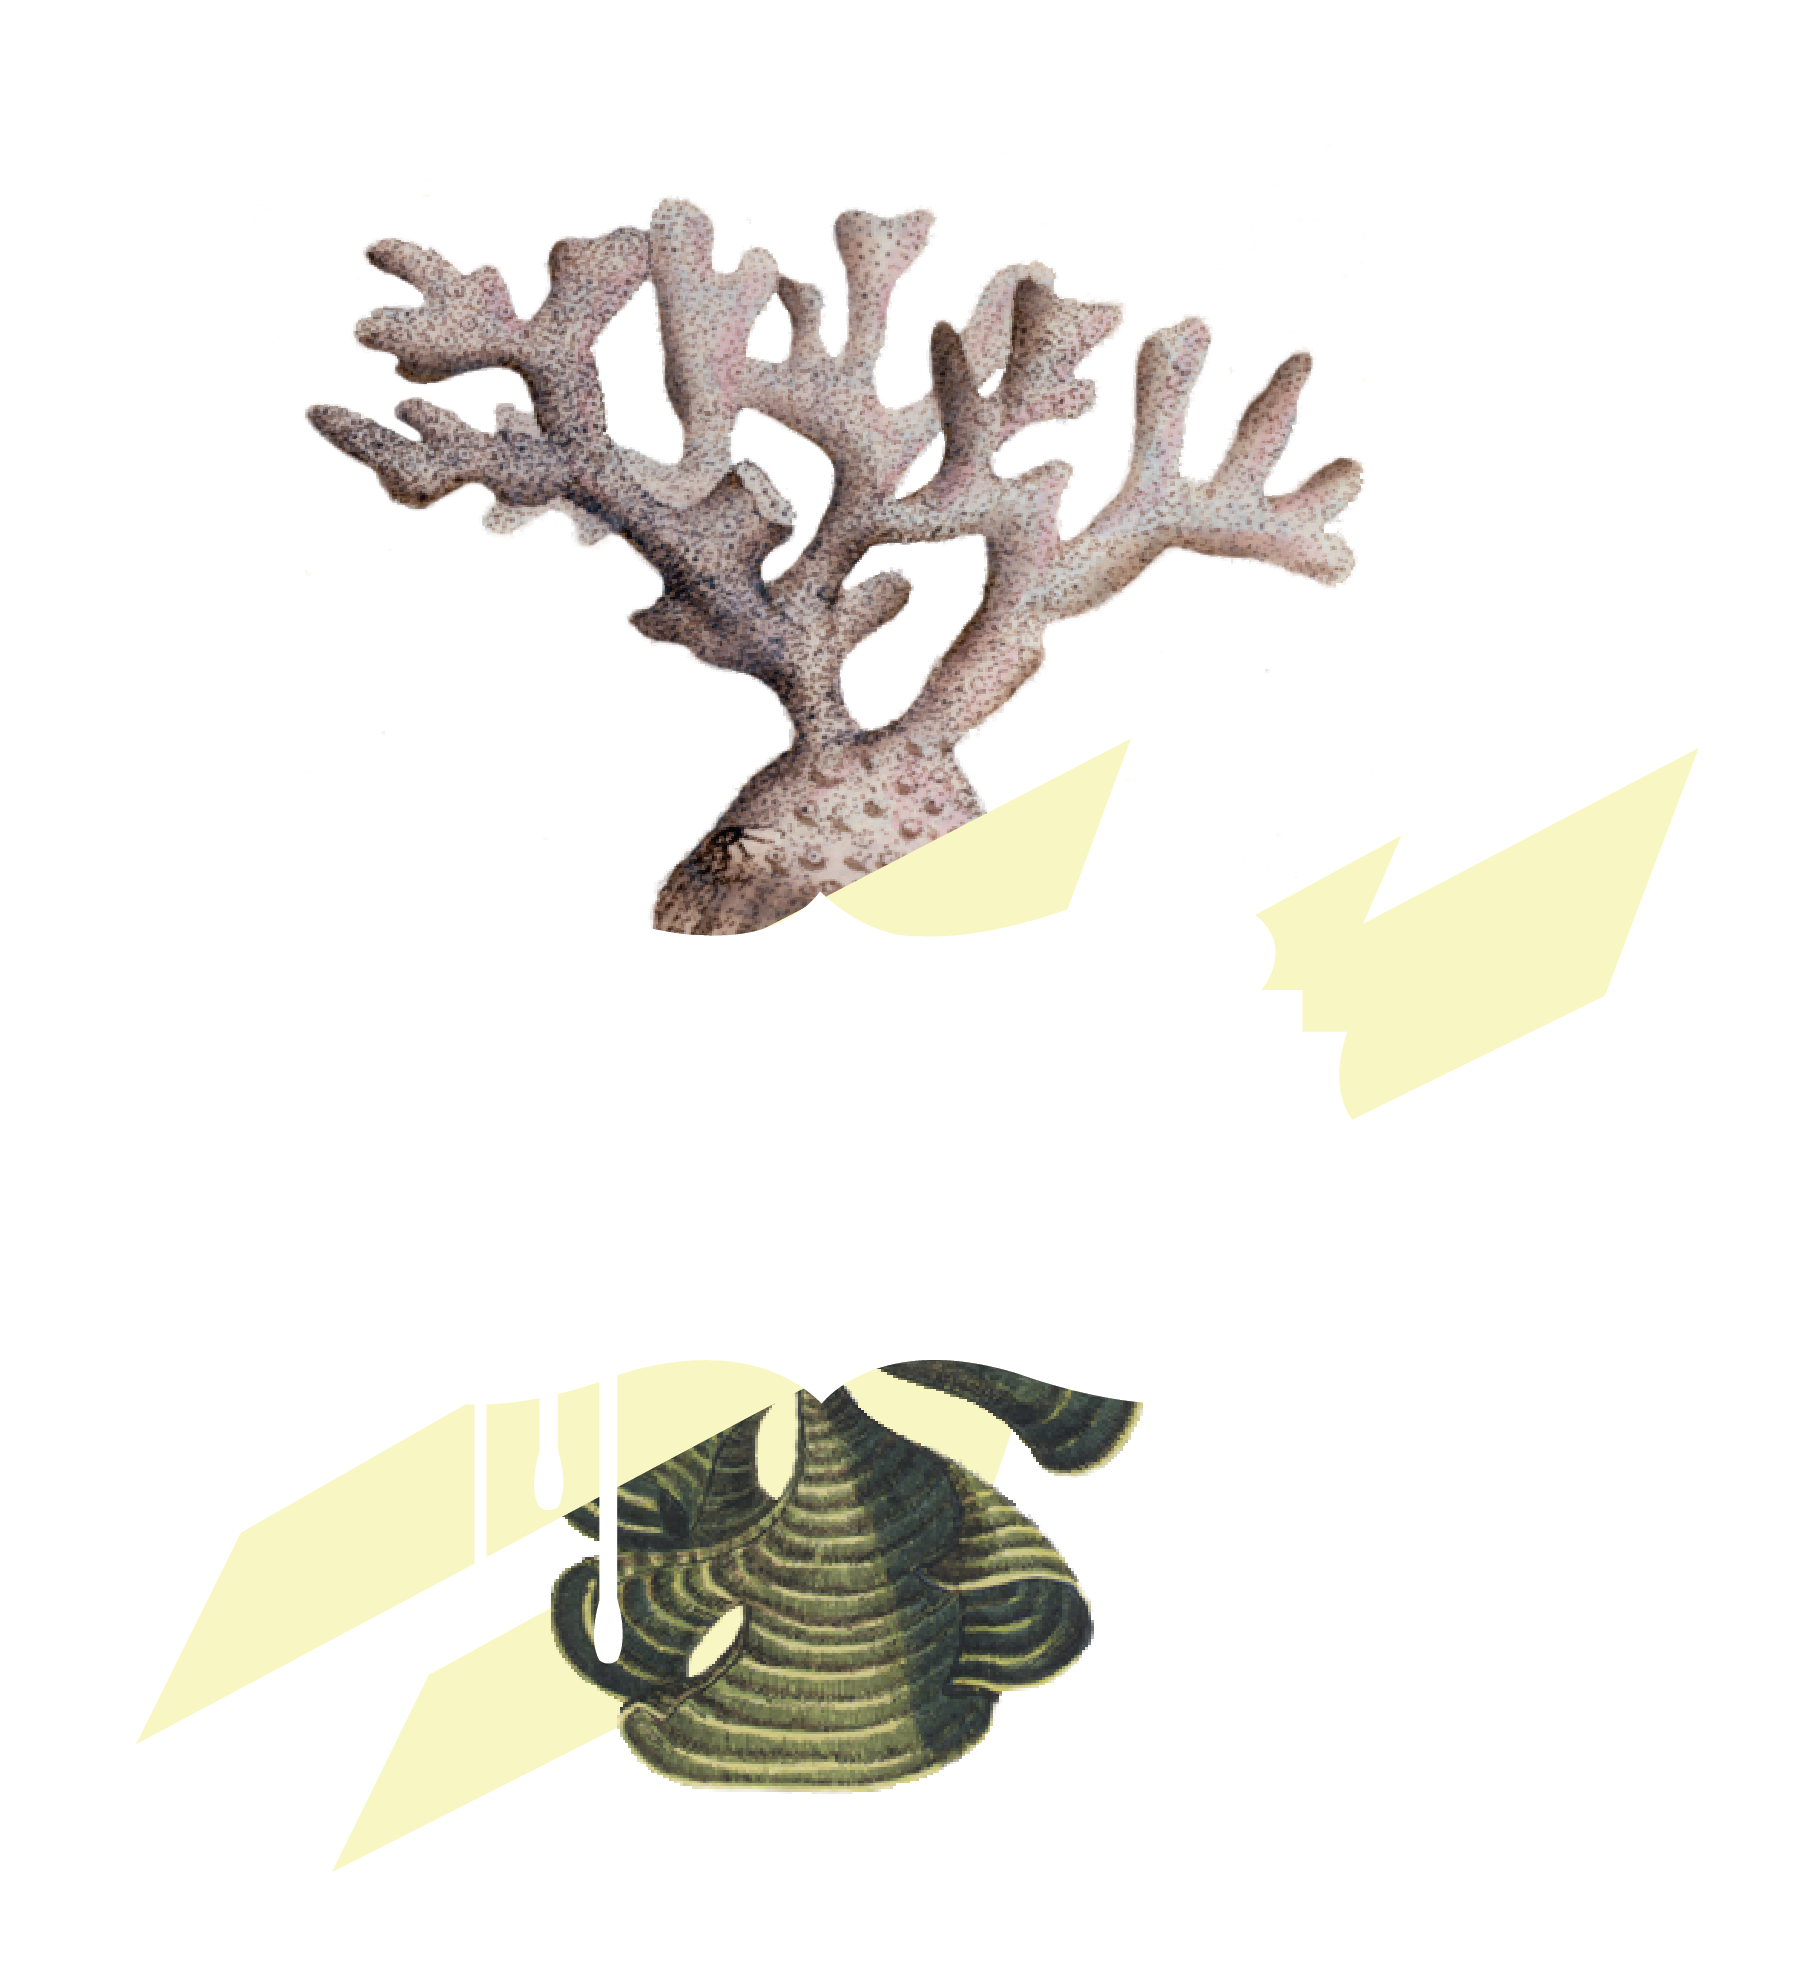
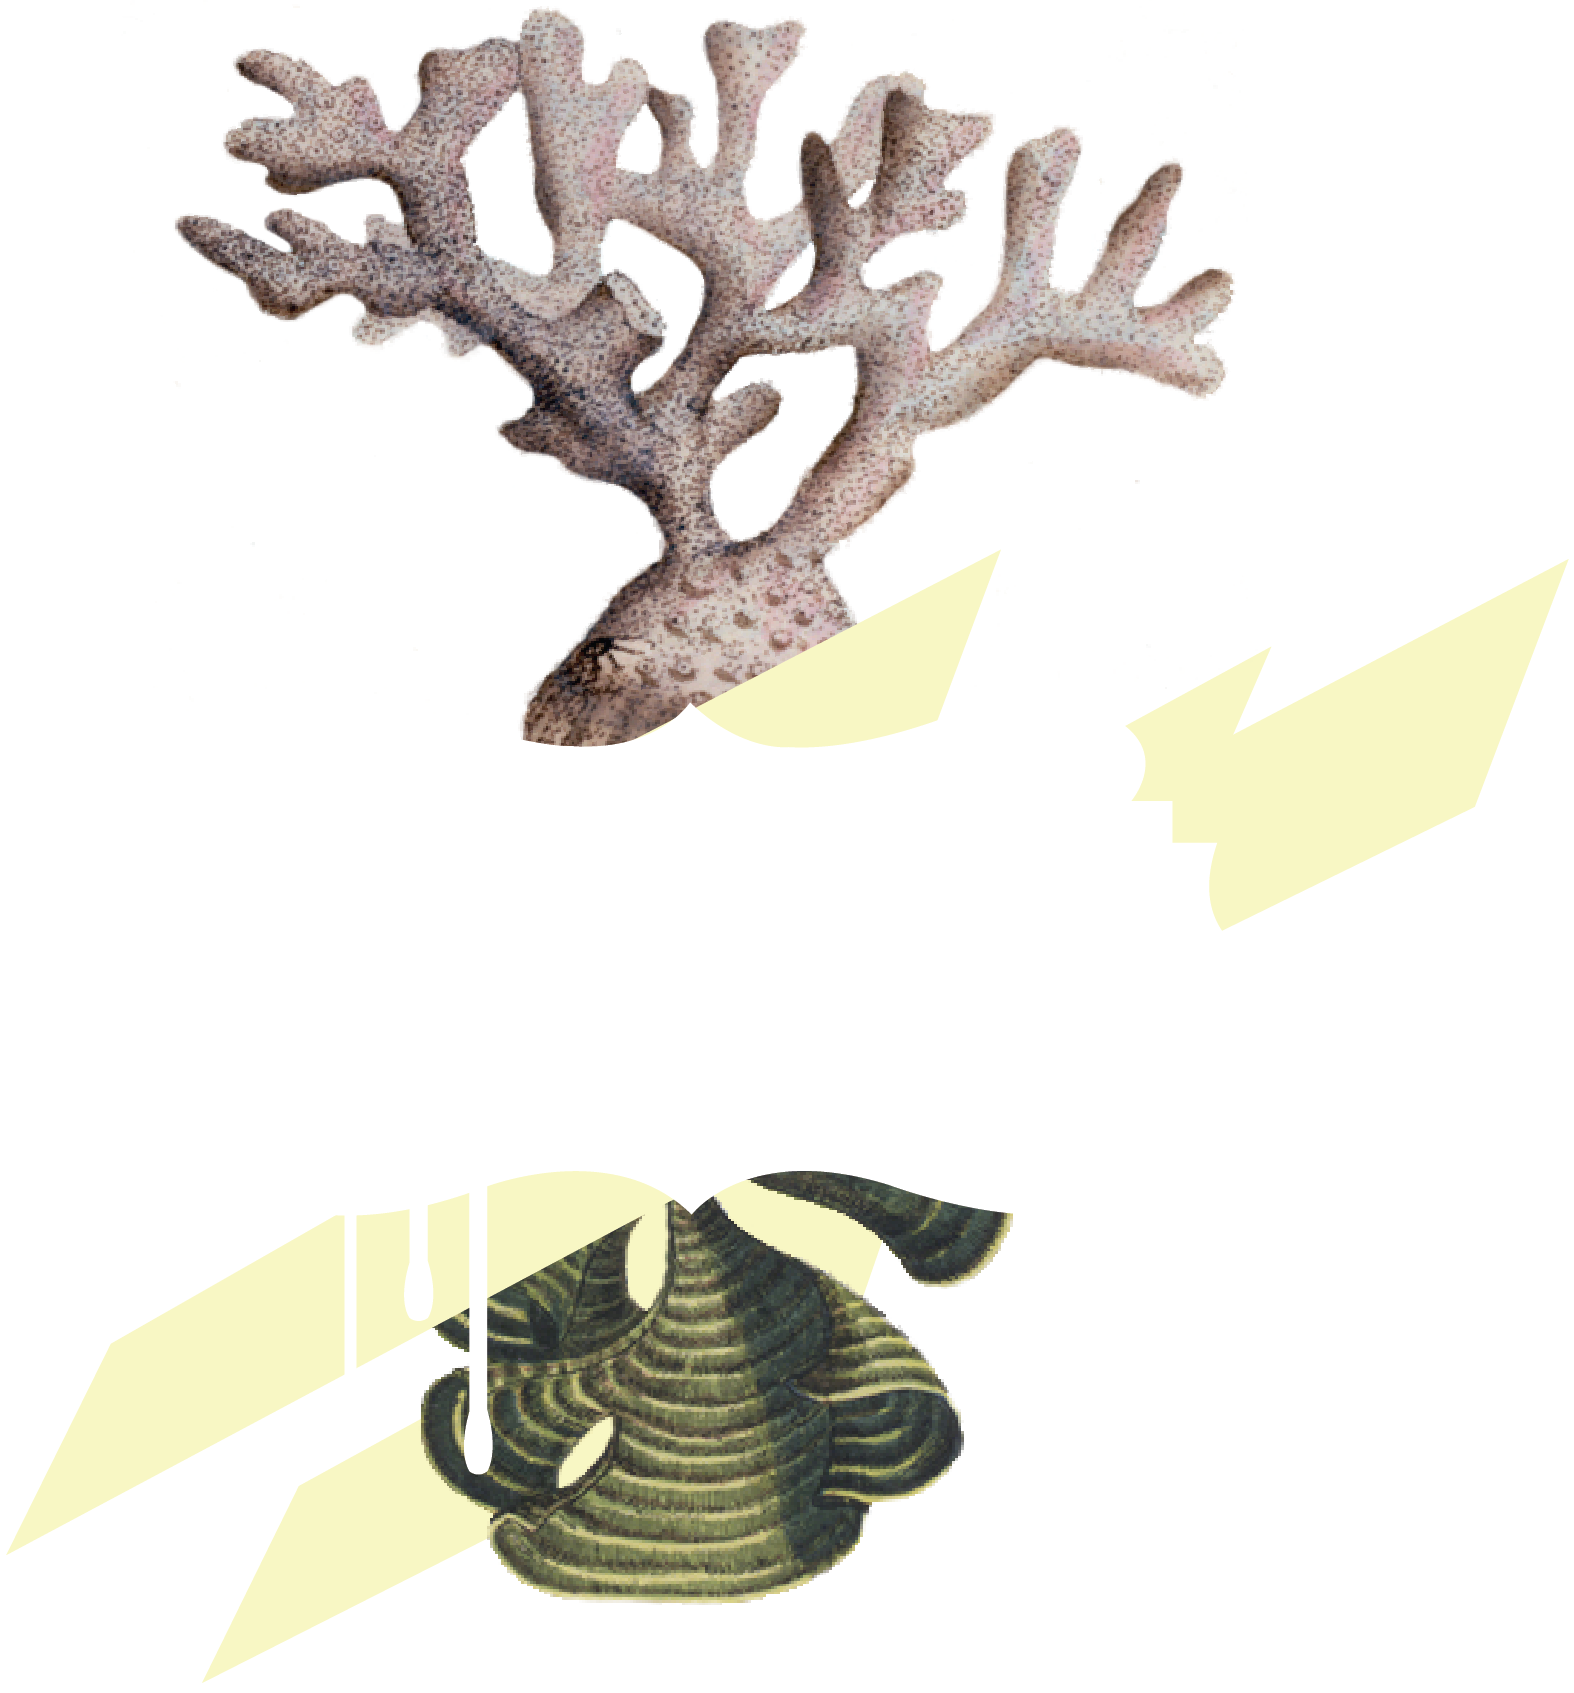
tests new stylng for breakpoints

diff --git a/src/styles/Home.css b/src/styles/Home.css
@@ -1,9 +1,72 @@
   .home-container {
-    background-color: #f4d0cd;
-    width: 100vw;
-    height: 100vh;
-    margin: 0;
-    padding-top: 15vw;
+  background-color: #f4d0cd;
+  width: 100%;
+  height: 100vh;
+  padding: 35% 0% 15% 2%;
+  box-sizing: border-box;
+  position: relative;
+  top: 0;
+  left: 0;
+  z-index: 0;
+}
+
+.home-image {
+  width: 110%;
+  height: auto;
+  position: relative;
+  z-index: 0;
+}
+
+.home-header-container {
+  width: 96vw;
+  height: 20vw;
+  margin: auto;
+  box-sizing: border-box;
+  position: absolute;
+  top: 14.5%;
+  bottom: 0;
+  left: 0;
+  right: 0;
+  z-index: 1;
+}
+
+.home-header {
+  font-family: 'Rubik Mono One', sans-serif;
+  color: #fe472b;
+  font-weight: 700;
+  font-size: 9vw;
+  padding: 0;
+  margin: 0;
+  text-align: center;
+  position: absolute;
+  top: 0;
+  bottom: 0;
+  left: 0;
+  right: 0;
+  z-index: 1;
+}
+
+.home-subheader {
+  font-family: 'Rubik Mono One', sans-serif;
+  color: #b9311c;
+  font-weight: 700;
+  font-size: 4.6vw;
+  padding: 0;
+  margin: 0;
+  text-align: center;
+  position: absolute;
+  top: 10vw;
+  bottom: 0;
+  left: 0;
+  right: 0;
+  z-index: 1;
+}
+
+
+/*@media (min-width:768px) {
+
+  .home-container {
+    padding-top: 7vw;
     position: relative;
     top: 0;
     left: 0;
@@ -12,21 +75,39 @@
 
   .home-image {
     background: url('./images/webpage-home2.png') no-repeat;
-    background-size: cover;
-    width: 110vw;
-    height: 79vh;
-    margin: 0 20vw 0 -6.5vw;
+    background-size: contain;
+    width: 90%;
+    height: 95%;
+    position: absolute;
+    margin: auto;
+    top: 5%;
+    bottom: 0;
+    left: 0;
+    right: 0;
+  }
+
+  .home-header-container {
+    width: 110%;
+    height: 20%;
+    position: relative;
+    margin: auto;
+    top: 38%;
+    bottom: 0;
+    left: -2%;
+    right: 0;
   }
 
   .home-header {
     font-family: 'Rubik Mono One', sans-serif;
     color: #fe472b;
     font-weight: 700;
-    font-size: 8.25vw;
+    font-size: 8.5vw;
+    padding: 0vw 2vw 0 0;
+    margin: 0 4vw 0 0;
     text-align: center;
     position: absolute;
-    top: 79vw;
-    left: 6.5vw;
+    top: 0;
+    left: 3vw;
     z-index: 1;
   }
 
@@ -34,111 +115,64 @@
     font-family: 'Rubik Mono One', sans-serif;
     color: #b9311c;
     font-weight: 700;
-    font-size: 4.25vw;
+    font-size: 4.38vw;
+    padding-right: 2vw;
+    margin: 0 3.5vw 0 0;
     text-align: center;
     position: absolute;
-    top: 90.25vw;
-    left: 7vw;
+    top: 10vw;
+    left: 3.6vw;
     z-index: 1;
   }
-
-@media (min-width:600px) {
-
-  .home-image {
-    width: 110vw;
-    height: 79vh;
-    margin: 0 20vw 0 -3vw;
-  }
-
-  .home-header {
-    position: absolute;
-    top: 76vw;
-    left: 4.75vw;
-    z-index: 1;
-  }
-
-  .home-subheader {
-    position: absolute;
-    top: 86vw;
-    left: 5.5vw;
-    z-index: 1;
-  }
-
-}
-
-@media (min-width:768px) {
-
-    .home-image {
-      background: url('./images/webpage-home2.png') no-repeat;
-      background-size: contain;
-      width: 100vw;
-      height: 120vw;
-      position: absolute;
-      top: 7vw;
-      left: 5vw;
-    }
-
-    .home-header {
-      font-family: 'Rubik Mono One', sans-serif;
-      color: #fe472b;
-      font-weight: 700;
-      font-size: 8.5vw;
-      padding: 0vw 2vw 0 0;
-      margin: 0 4vw 0 0;
-      text-align: center;
-      position: absolute;
-      top: 55vw;
-      left: 4.5vw;
-      z-index: 1;
-    }
-
-    .home-subheader {
-      font-family: 'Rubik Mono One', sans-serif;
-      color: #b9311c;
-      font-weight: 700;
-      font-size: 4.35vw;
-      padding-right: 2vw;
-      margin: 0 3.5vw 0 0;
-      text-align: center;
-      position: absolute;
-      top: 65vw;
-      left: 5vw;
-      z-index: 1;
-    }
-}
+}*/
 
 @media (min-width:1024px) {
 
-  .home-container {
+    .home-container {
     background-color: #f4d0cd;
+    width: 100%;
     height: 100vh;
-    padding: 0;
+    padding: 5% 26.5% 2% 28.5%;
+    box-sizing: border-box;
     position: relative;
     top: 0;
     left: 0;
+    z-index: 0;
   }
 
   .home-image {
-    background: url('./images/webpage-home2.png') no-repeat;
-    background-size: contain;
-    width: 70vw;
-    height: 55vw;
+    width: auto;
+    height: 97%;
+    position: relative;
+    z-index: 0;
+  }
+
+  .home-header-container {
+    width: 55vw;
+    height: 20vw;
+    margin: auto;
+    box-sizing: border-box;
     position: absolute;
-    top: 1vw;
-    left: 30vw;
+    top: 30.5%;
+    bottom: 0;
+    left: 0;
+    right: 0;
+    z-index: 1;
   }
 
   .home-header {
     font-family: 'Rubik Mono One', sans-serif;
     color: #fe472b;
     font-weight: 700;
-    font-size: 5vw;
+    font-size: 5.3vw;
     padding: 0;
     margin: 0;
     text-align: center;
     position: absolute;
-    top: 27vw;
-    left: -2.5vw;
+    top: 0;
+    bottom: 0;
+    left: 0;
+    right: 0;
     z-index: 1;
   }
 
@@ -146,14 +180,15 @@
     font-family: 'Rubik Mono One', sans-serif;
     color: #b9311c;
     font-weight: 700;
-    font-size: 2.57vw;
-    padding-right: 0;
+    font-size: 2.8vw;
+    padding: 0;
     margin: 0;
     text-align: center;
     position: absolute;
-    top: 32.5vw;
-    left: -2vw;
+    top: 6vw;
+    bottom: 0;
+    left: 0;
+    right: 0;
     z-index: 1;
   }
-
 }

diff --git a/src/components/About.js b/src/components/About.js
@@ -7,10 +7,12 @@ class About extends Component {
     return (
       <div className="about-container" id="aboutPage">
         <div className="about-frame">
-          <h1 className="about-header">About Me</h1>
-            <p className="about-paragraph">
-              My name is Lorien Olive. I'm a front-end web developer living in Durham, North Carolina. In an past life, I was an anthropologist and documentary filmmaker. When I code, I can't help but think about all the ways that human-beings will interact with the applications I build. I hope to develop beautiful UI for technology that matters. When I'm not at my keyboard, I'm hiking along the Eno with the pups.
-            </p>
+          <div className="about-text-row">
+            <h1 className="about-header">About Me</h1>
+              <p className="about-paragraph">
+                My name is Lorien Olive. I'm a front-end web developer living in Durham, North Carolina. In a past life, I was an anthropologist and documentary filmmaker. When I code, I can't help but think about all the ways that human-beings will interact with the applications I build. I hope to develop beautiful UI for technology that matters. When I'm not at my keyboard, I'm hiking along the Eno with the pups.
+              </p>
+          </div>
         </div>
       </div>
     )

diff --git a/src/components/Home.js b/src/components/Home.js
@@ -2,15 +2,19 @@ import React, { Component } from 'react';
 
 import '../styles/Home.css'
 
+import splash from '../styles/images/webpage-home2.png'
+
 class Home extends Component {
   render() {
     return (
       <div className="home-container" id="homePage">
-        <div className="home-image">
+        <img className="home-image" src={splash} alt="weird collage" />
+        <div className="home-header-container">
           <h1 className="home-header">Lorien Olive</h1>
           <h3 className="home-subheader">Front-End Web Developer</h3>
         </div>
       </div>
+
     )
   }
 }

diff --git a/public/index.html b/public/index.html
@@ -27,9 +27,9 @@
     <script src="https://cdnjs.cloudflare.com/ajax/libs/react/<react-version>/react.min.js"></script>
     <script src="https://cdnjs.cloudflare.com/ajax/libs/react/<react-version>/react-dom.min.js"></script>
     <script src="https://cdnjs.cloudflare.com/ajax/libs/react-bootstrap/<version>/react-bootstrap.min.js"></script>
-    <script>
+    <!-- <script>
     var Alert = ReactBootstrap.Alert;
-    </script>
+    </script> -->
     <script>
     (function(){
       var ef = function(){};
